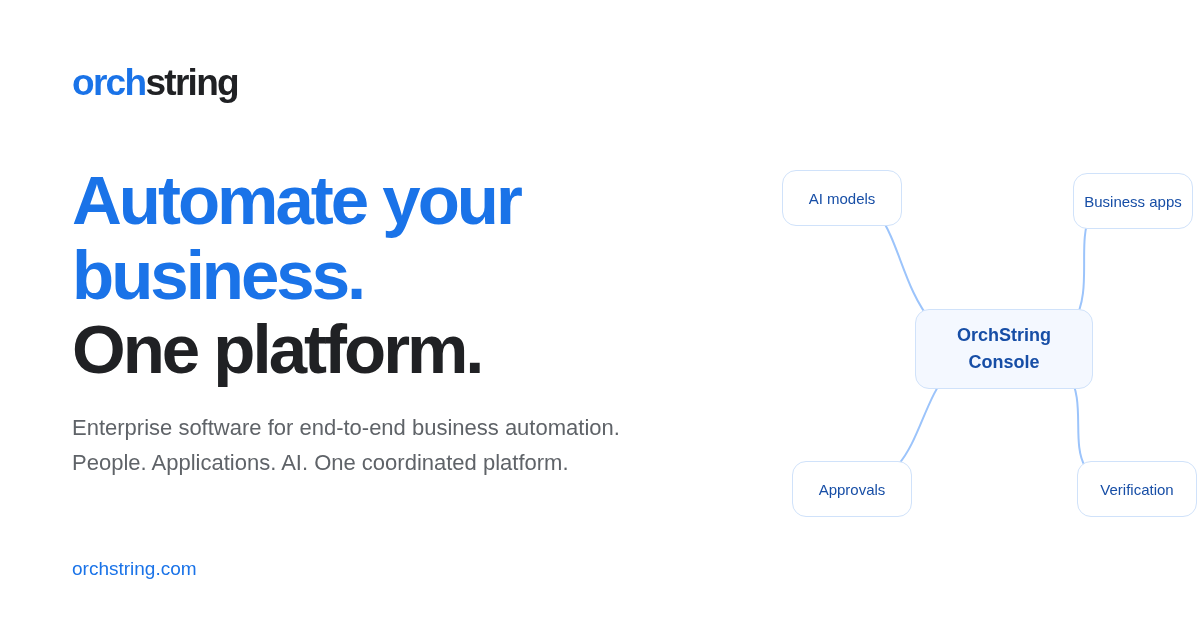
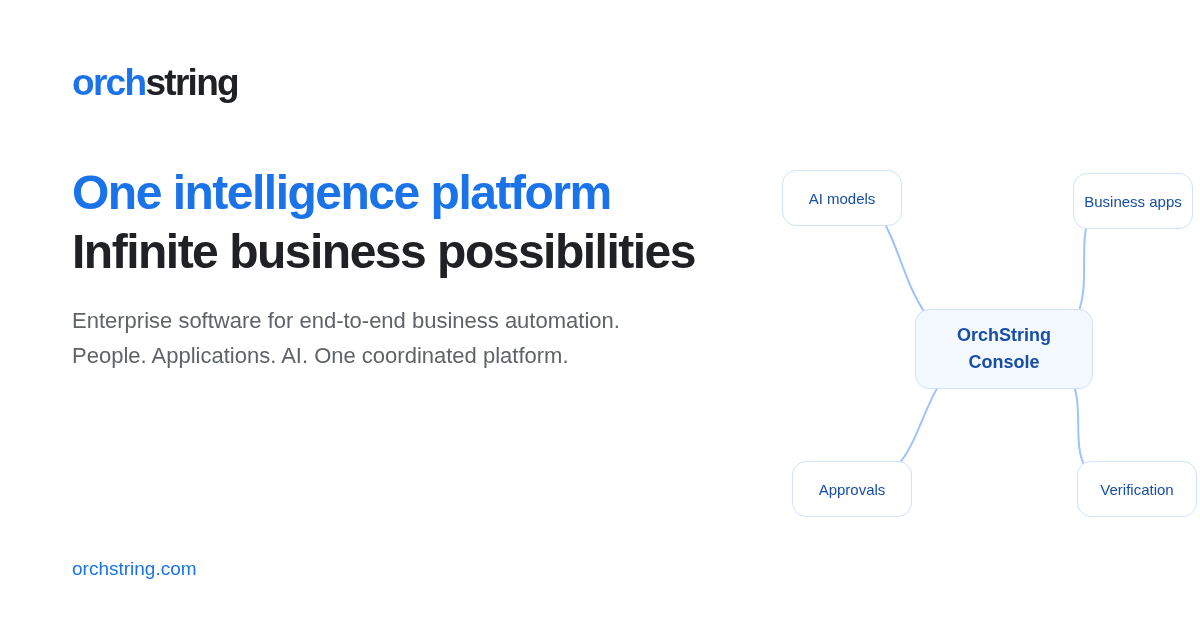
Set the intelligence platform and business possibilities tagline

Changed region(s): [[0.0617, 0.2714, 0.5858, 0.6032], [0.0617, 0.6635, 0.5242, 0.6937], [0.0617, 0.7238, 0.4625, 0.754]]

diff --git a/index.html b/index.html
@@ -20,13 +20,13 @@
 <meta property="og:description" content="Automate your business with orchstring, an enterprise AI execution platform connecting people, apps and AI through controlled, verifiable workflows.">
 <meta property="og:url" content="https://orchstring.com/">
 <meta property="og:locale" content="en_IN">
-<meta property="og:image" content="https://orchstring.com/assets/orchstring-social.png?v=20261026-one-platform">
+<meta property="og:image" content="https://orchstring.com/assets/orchstring-social.png?v=20261026-tagline">
 <meta property="og:image:width" content="1200">
 <meta property="og:image:height" content="630">
-<meta property="og:image:alt" content="OrchString — Automate your business with one platform.">
+<meta property="og:image:alt" content="OrchString — One intelligence platform — Infinite business possibilities">
 <meta name="twitter:card" content="summary_large_image">
-<meta name="twitter:image" content="https://orchstring.com/assets/orchstring-social.png?v=20261026-one-platform">
-<meta name="twitter:image:alt" content="OrchString — Automate your business with one platform.">
+<meta name="twitter:image" content="https://orchstring.com/assets/orchstring-social.png?v=20261026-tagline">
+<meta name="twitter:image:alt" content="OrchString — One intelligence platform — Infinite business possibilities">
 <meta name="twitter:title" content="OrchString | Enterprise AI Execution Platform">
 <meta name="twitter:description" content="Automate your business with orchstring, an enterprise AI execution platform connecting people, apps and AI through controlled, verifiable workflows.">
 <script type="application/ld+json">
@@ -78,7 +78,8 @@
       ],
       "sameAs": [
         "https://www.linkedin.com/in/thedeveloperyug"
-      ]
+      ],
+      "slogan": "One intelligence platform\nInfinite business possibilities"
     },
     {
       "@type": "SoftwareApplication",
@@ -179,7 +180,7 @@
 <link rel="preconnect" href="https://fonts.googleapis.com">
 <link rel="preconnect" href="https://fonts.gstatic.com" crossorigin>
 <link href="https://fonts.googleapis.com/css2?family=Roboto:wght@400;500;700&display=swap" rel="stylesheet">
-<link rel="stylesheet" href="style-new.css?v=20261026-one-platform">
+<link rel="stylesheet" href="style-new.css?v=20261026-tagline">
 <link rel="stylesheet" href="/content.css?v=20261026-seo">
 <noscript><style>.reveal,.reveal *{opacity:1!important;transform:none!important;animation:none!important}</style></noscript>
 </head>
@@ -232,7 +233,7 @@
   <div class="hero-grid"></div>
   <div class="hero-copy reveal">
     <div class="eyebrow"><span class="live-dot"></span> Enterprise software · Intelligent execution</div>
-    <h1><span class="hero-brand-name">OrchString</span><br><span class="hero-tagline">Automate your<br>business with<br>one platform.</span></h1>
+    <h1><span class="hero-brand-name">OrchString</span><br><span class="hero-tagline">One intelligence platform<br>Infinite business possibilities</span></h1>
     <p class="brand-introduction"><strong class="intro-brand">OrchString</strong> is an AI-powered, enterprise-oriented execution platform designed to transform business objectives into coordinated, controlled, and verifiable workflows.</p>
     <p class="enterprise-positioning">One enterprise platform for end-to-end business automation, connecting people, applications, data and AI.</p>
     <div class="buttons">
@@ -809,7 +810,7 @@
 
 <footer>
   <span>© 2026 YOGESH PANDEY · OrchString</span>
-  <span>OrchString — Think. Adapt. Act.</span>
+  <span class="footer-tagline">One intelligence platform<br>Infinite business possibilities</span>
   <a href="/faq/">FAQ</a>
   <a href="/sitemap.xml">Sitemap</a>
   <a href="https://www.linkedin.com/in/thedeveloperyug">Yogesh Pandey on LinkedIn <svg class="orchstring-icon" viewBox="0 0 24 24" aria-hidden="true" focusable="false"><use href="#orchstring-icon-arrow-up-right"></use></svg></a>

diff --git a/invoice-processing-automation/index.html b/invoice-processing-automation/index.html
@@ -18,15 +18,15 @@
 <meta property="og:title" content="Invoice Processing Automation &amp; AP Workflows | OrchString">
 <meta property="og:description" content="Explore AI-assisted invoice processing: document extraction, purchase order matching, duplicate checks, human approvals and verifiable accounts payable workflows.">
 <meta property="og:url" content="https://orchstring.com/invoice-processing-automation/">
-<meta property="og:image" content="https://orchstring.com/assets/orchstring-social.png?v=20261026-one-platform">
+<meta property="og:image" content="https://orchstring.com/assets/orchstring-social.png?v=20261026-tagline">
 <meta property="og:image:width" content="1200">
 <meta property="og:image:height" content="630">
-<meta property="og:image:alt" content="OrchString — Automate your business with one platform.">
+<meta property="og:image:alt" content="OrchString — One intelligence platform — Infinite business possibilities">
 <meta name="twitter:card" content="summary_large_image">
 <meta name="twitter:title" content="Invoice Processing Automation &amp; AP Workflows | OrchString">
 <meta name="twitter:description" content="Explore AI-assisted invoice processing: document extraction, purchase order matching, duplicate checks, human approvals and verifiable accounts payable workflows.">
-<meta name="twitter:image" content="https://orchstring.com/assets/orchstring-social.png?v=20261026-one-platform">
-<meta name="twitter:image:alt" content="OrchString — Automate your business with one platform.">
+<meta name="twitter:image" content="https://orchstring.com/assets/orchstring-social.png?v=20261026-tagline">
+<meta name="twitter:image:alt" content="OrchString — One intelligence platform — Infinite business possibilities">
 <script type="application/ld+json">
 {
   "@context": "https://schema.org",
@@ -93,7 +93,7 @@
       },
       "datePublished": "2026-10-26",
       "dateModified": "2026-10-26",
-      "image": "https://orchstring.com/assets/orchstring-social.png?v=20261026-one-platform",
+      "image": "https://orchstring.com/assets/orchstring-social.png?v=20261026-tagline",
       "inLanguage": "en"
     }
   ]
@@ -102,7 +102,7 @@
 <link rel="preconnect" href="https://fonts.googleapis.com">
 <link rel="preconnect" href="https://fonts.gstatic.com" crossorigin>
 <link href="https://fonts.googleapis.com/css2?family=Roboto:wght@400;500;700&display=swap" rel="stylesheet">
-<link rel="stylesheet" href="/style-new.css?v=20261026-one-platform">
+<link rel="stylesheet" href="/style-new.css?v=20261026-tagline">
 <link rel="stylesheet" href="/content.css?v=20261026-seo">
 </head>
 <body class="content-page">

diff --git a/ai-agent-orchestration/index.html b/ai-agent-orchestration/index.html
@@ -18,15 +18,15 @@
 <meta property="og:title" content="AI Agent Orchestration &amp; Controlled Execution | OrchString">
 <meta property="og:description" content="Explore AI agent orchestration: task dependencies, model routing, human approvals, retries and evidence-based verification in the orchstring platform design.">
 <meta property="og:url" content="https://orchstring.com/ai-agent-orchestration/">
-<meta property="og:image" content="https://orchstring.com/assets/orchstring-social.png?v=20261026-one-platform">
+<meta property="og:image" content="https://orchstring.com/assets/orchstring-social.png?v=20261026-tagline">
 <meta property="og:image:width" content="1200">
 <meta property="og:image:height" content="630">
-<meta property="og:image:alt" content="OrchString — Automate your business with one platform.">
+<meta property="og:image:alt" content="OrchString — One intelligence platform — Infinite business possibilities">
 <meta name="twitter:card" content="summary_large_image">
 <meta name="twitter:title" content="AI Agent Orchestration &amp; Controlled Execution | OrchString">
 <meta name="twitter:description" content="Explore AI agent orchestration: task dependencies, model routing, human approvals, retries and evidence-based verification in the orchstring platform design.">
-<meta name="twitter:image" content="https://orchstring.com/assets/orchstring-social.png?v=20261026-one-platform">
-<meta name="twitter:image:alt" content="OrchString — Automate your business with one platform.">
+<meta name="twitter:image" content="https://orchstring.com/assets/orchstring-social.png?v=20261026-tagline">
+<meta name="twitter:image:alt" content="OrchString — One intelligence platform — Infinite business possibilities">
 <script type="application/ld+json">
 {
   "@context": "https://schema.org",
@@ -93,7 +93,7 @@
       },
       "datePublished": "2026-10-26",
       "dateModified": "2026-10-26",
-      "image": "https://orchstring.com/assets/orchstring-social.png?v=20261026-one-platform",
+      "image": "https://orchstring.com/assets/orchstring-social.png?v=20261026-tagline",
       "inLanguage": "en"
     }
   ]
@@ -102,7 +102,7 @@
 <link rel="preconnect" href="https://fonts.googleapis.com">
 <link rel="preconnect" href="https://fonts.gstatic.com" crossorigin>
 <link href="https://fonts.googleapis.com/css2?family=Roboto:wght@400;500;700&display=swap" rel="stylesheet">
-<link rel="stylesheet" href="/style-new.css?v=20261026-one-platform">
+<link rel="stylesheet" href="/style-new.css?v=20261026-tagline">
 <link rel="stylesheet" href="/content.css?v=20261026-seo">
 </head>
 <body class="content-page">

diff --git a/ai-workflow-automation/index.html b/ai-workflow-automation/index.html
@@ -18,15 +18,15 @@
 <meta property="og:title" content="AI Workflow Automation for Business Teams | OrchString">
 <meta property="og:description" content="Learn how AI workflow automation coordinates business apps, people, approvals and verification. Explore an onboarding example and plan an orchstring pilot.">
 <meta property="og:url" content="https://orchstring.com/ai-workflow-automation/">
-<meta property="og:image" content="https://orchstring.com/assets/orchstring-social.png?v=20261026-one-platform">
+<meta property="og:image" content="https://orchstring.com/assets/orchstring-social.png?v=20261026-tagline">
 <meta property="og:image:width" content="1200">
 <meta property="og:image:height" content="630">
-<meta property="og:image:alt" content="OrchString — Automate your business with one platform.">
+<meta property="og:image:alt" content="OrchString — One intelligence platform — Infinite business possibilities">
 <meta name="twitter:card" content="summary_large_image">
 <meta name="twitter:title" content="AI Workflow Automation for Business Teams | OrchString">
 <meta name="twitter:description" content="Learn how AI workflow automation coordinates business apps, people, approvals and verification. Explore an onboarding example and plan an orchstring pilot.">
-<meta name="twitter:image" content="https://orchstring.com/assets/orchstring-social.png?v=20261026-one-platform">
-<meta name="twitter:image:alt" content="OrchString — Automate your business with one platform.">
+<meta name="twitter:image" content="https://orchstring.com/assets/orchstring-social.png?v=20261026-tagline">
+<meta name="twitter:image:alt" content="OrchString — One intelligence platform — Infinite business possibilities">
 <script type="application/ld+json">
 {
   "@context": "https://schema.org",
@@ -93,7 +93,7 @@
       },
       "datePublished": "2026-10-26",
       "dateModified": "2026-10-26",
-      "image": "https://orchstring.com/assets/orchstring-social.png?v=20261026-one-platform",
+      "image": "https://orchstring.com/assets/orchstring-social.png?v=20261026-tagline",
       "inLanguage": "en"
     }
   ]
@@ -102,7 +102,7 @@
 <link rel="preconnect" href="https://fonts.googleapis.com">
 <link rel="preconnect" href="https://fonts.gstatic.com" crossorigin>
 <link href="https://fonts.googleapis.com/css2?family=Roboto:wght@400;500;700&display=swap" rel="stylesheet">
-<link rel="stylesheet" href="/style-new.css?v=20261026-one-platform">
+<link rel="stylesheet" href="/style-new.css?v=20261026-tagline">
 <link rel="stylesheet" href="/content.css?v=20261026-seo">
 </head>
 <body class="content-page">

diff --git a/faq/index.html b/faq/index.html
@@ -18,15 +18,15 @@
 <meta property="og:title" content="OrchString FAQ | AI Workflows, Integrations &amp; Approvals">
 <meta property="og:description" content="Answers about orchstring AI workflows, agent orchestration, integrations, invoice approvals, development status, pricing inquiries and the team behind the platform.">
 <meta property="og:url" content="https://orchstring.com/faq/">
-<meta property="og:image" content="https://orchstring.com/assets/orchstring-social.png?v=20261026-one-platform">
+<meta property="og:image" content="https://orchstring.com/assets/orchstring-social.png?v=20261026-tagline">
 <meta property="og:image:width" content="1200">
 <meta property="og:image:height" content="630">
-<meta property="og:image:alt" content="OrchString — Automate your business with one platform.">
+<meta property="og:image:alt" content="OrchString — One intelligence platform — Infinite business possibilities">
 <meta name="twitter:card" content="summary_large_image">
 <meta name="twitter:title" content="OrchString FAQ | AI Workflows, Integrations &amp; Approvals">
 <meta name="twitter:description" content="Answers about orchstring AI workflows, agent orchestration, integrations, invoice approvals, development status, pricing inquiries and the team behind the platform.">
-<meta name="twitter:image" content="https://orchstring.com/assets/orchstring-social.png?v=20261026-one-platform">
-<meta name="twitter:image:alt" content="OrchString — Automate your business with one platform.">
+<meta name="twitter:image" content="https://orchstring.com/assets/orchstring-social.png?v=20261026-tagline">
+<meta name="twitter:image:alt" content="OrchString — One intelligence platform — Infinite business possibilities">
 <script type="application/ld+json">
 {
   "@context": "https://schema.org",
@@ -158,7 +158,7 @@
 <link rel="preconnect" href="https://fonts.googleapis.com">
 <link rel="preconnect" href="https://fonts.gstatic.com" crossorigin>
 <link href="https://fonts.googleapis.com/css2?family=Roboto:wght@400;500;700&display=swap" rel="stylesheet">
-<link rel="stylesheet" href="/style-new.css?v=20261026-one-platform">
+<link rel="stylesheet" href="/style-new.css?v=20261026-tagline">
 <link rel="stylesheet" href="/content.css?v=20261026-seo">
 </head>
 <body class="content-page">

diff --git a/style-new.css b/style-new.css
@@ -2902,8 +2902,11 @@ main > section:not(.hero) {
 }
 .hero h1 .hero-tagline {
   display:inline-block;
-  font-size:.74em;
-  line-height:1.08;
+  font-size:clamp(20px,3.2vw,46px);
+  line-height:1.23;
+  letter-spacing:-.025em;
+  white-space:nowrap;
+  max-width:100%;
   vertical-align:top;
 }
 .hero .brand-introduction,

diff --git a/.github/scripts/check_seo.py b/.github/scripts/check_seo.py
@@ -128,7 +128,7 @@ def main():
             if parser.metadata.get(key) != description:
                 fail(url, key + ' must match description')
         for key in ('og:image', 'twitter:image'):
-            if parser.metadata.get(key) != BASE + 'assets/orchstring-social.png?v=20261026-one-platform':
+            if parser.metadata.get(key) != BASE + 'assets/orchstring-social.png?v=20261026-tagline':
                 fail(url, key + ' must use the published social preview')
         if not parser.metadata.get('og:image:alt') or not parser.metadata.get('twitter:image:alt'):
             fail(url, 'social preview needs descriptive alt text')

diff --git a/README.md b/README.md
@@ -5,7 +5,7 @@ Official website: https://orchstring.com/
 **Primary project:** OrchString
 
 **Status:** Active development  
-**Tagline:** Automate your business with one platform.
+**Tagline:** One intelligence platform<br>Infinite business possibilities
 
 ## Purpose
 
@@ -132,7 +132,8 @@ Email: thedeveloperyug@gmail.com
 
 **OrchString — Intelligent business execution.**
 
-**Think. Adapt. Act.**
+**One intelligence platform**<br>
+**Infinite business possibilities**
 
 ## SEO and domain routing
 
